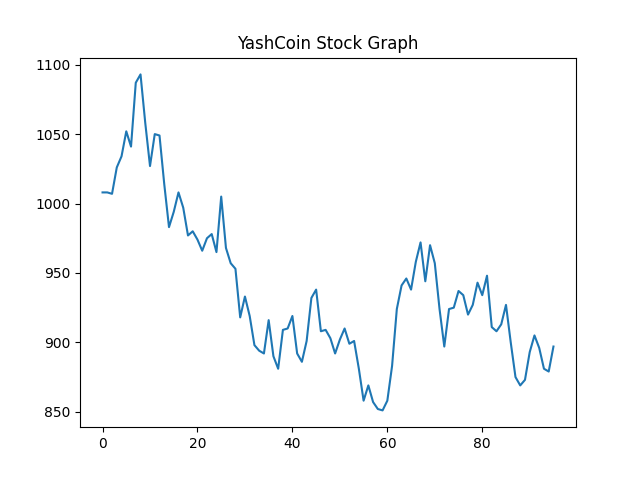
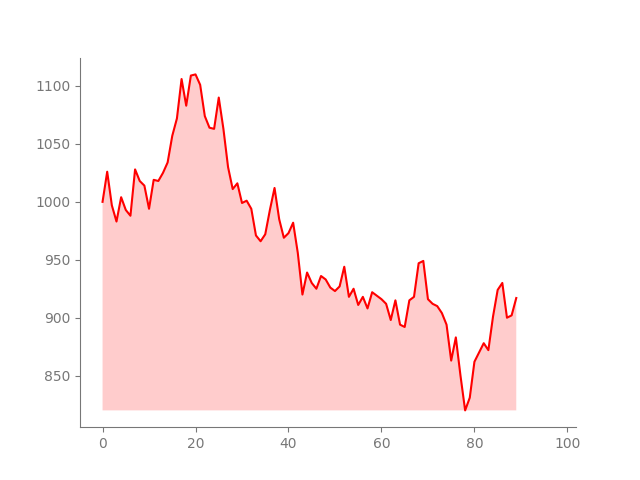
(mostly) completed YC value mechanics and visualization

diff --git a/cogs/yashcoin_cog.py b/cogs/yashcoin_cog.py
@@ -5,12 +5,13 @@ from cogs.base_cog      import BaseCog
 
 from utils              import (get_json_path, get_json_data, set_json_data,
                                 get_emoji, get_mentioned_member, create_progress_bar,
-                                create_black_embed, create_graph)
+                                create_black_embed, create_simple_graph, 
+                                update_simple_graph, get_simple_graph_value_count)
 from custom_errors import TooManyArgumentsError
 
 from numpy import random, exp, cumprod
 from math import sqrt
-from datetime import date
+from datetime import datetime, date
 
 class YashCoinCog(BaseCog):
     def __init__(self, bot):
@@ -137,18 +138,48 @@ class YashCoinCog(BaseCog):
         path = get_json_path("yashcoin")
         json_data = await get_json_data(path)
 
+        # Set up new graph for the new day
         today = str(date.today())
         if json_data.setdefault("prev_check", None) != today:
             values = self.__get_yc_graph_values()
-            create_graph(values, color=self.__get_yc_graph_color(values[0], values[-1]))
-
             json_data["prev_check"] = today
             json_data["values"] = values
 
-            await set_json_data(path, json_data)
+            self.__create_yc_graph(len(values))
 
+            await set_json_data(path, json_data)
         
-        await ctx.send(file=discord.File("assets/plot.png"))
+        # Generate up-to-date graph
+        values = json_data.get("values", [self.__BASE_PRICE])
+        num_values = len(values)
+
+        clock = datetime.now()
+        clock_idx = int(num_values * ((clock.hour + (clock.minute / 60)) / 24))
+
+        current_values = values[:clock_idx] # TODO: current vlaues should get subset of values, up until "present time"
+        if get_simple_graph_value_count() < len(current_values):
+            self.__update_yc_graph(num_values, current_values)
+
+        difference = current_values[-1] - current_values[0]
+        percentage = difference / current_values[0]
+
+        embed_reply = create_black_embed()
+
+        embed_reply.title = "Market Summary — `YCSE: YSH`"
+        embed_reply.add_field(
+            name="**Value**", 
+            value=f"`{current_values[-1]} NRT` | `{difference:+d} ({percentage:+.2%})`", 
+            inline=False
+        )
+        embed_reply.add_field(
+            name="**Date and Time**", 
+            value=f"`{clock.strftime('%b %d, %I:%M %p')} PT`", 
+            inline=False
+        )
+        file = discord.File("assets/plot.png", filename="plot.png")
+        embed_reply.set_image(url="attachment://plot.png")
+
+        await ctx.send(file=file, embed=embed_reply)
 
 
 
@@ -211,6 +242,16 @@ class YashCoinCog(BaseCog):
             return "gray"
         
         return "green" if start < end else "red"
+    
+    __X_PADDING = 0.05
+    def __create_yc_graph(self, num_values):
+        xlim = (-self.__X_PADDING * num_values, (1 + self.__X_PADDING) * num_values)
+        create_simple_graph(None, xlim=xlim)
+    
+    def __update_yc_graph(self, num_values, current_values):
+        xlim = (-self.__X_PADDING * num_values, (1 + self.__X_PADDING) * num_values)
+        color = self.__get_yc_graph_color(current_values[0], current_values[-1])
+        update_simple_graph(None, current_values, xlim=xlim, color=color)
 
 
 def setup(bot):

diff --git a/utils.py b/utils.py
@@ -102,21 +102,64 @@ async def set_json_data(path, json_data):
 
 
 ### Graph Helpers ###
-def create_graph(values, **kwargs):
-    steps = len(values)
+def create_simple_graph(title, values=[], xlim=(), ylim=(), **kwargs):
 
     plt.clf()
-    plt.plot(values, **kwargs)
-    plt.fill_between(x=range(steps), y1=values, y2=[min(values)] * steps, 
-                     facecolor=kwargs.get("color", None), alpha=0.2)
+    plt.title(title)
     axes = plt.gca()
-    axes.spines["top"].set_visible(False)
-    axes.spines["right"].set_visible(False)
-    plt.title("YashCoin Stock Graph")
+    axes.spines.top.set_visible(False)
+    axes.spines.right.set_visible(False)
+    # Modify colors to be light and dark mode friendly
+    axes.spines.bottom.set_color("#777") 
+    axes.spines.left.set_color("#777")
+    axes.xaxis.label.set_color("#777")
+    axes.yaxis.label.set_color("#777")
+    axes.tick_params(colors="#777", which="both")
+
+    if len(xlim) > 0: axes.set_xlim(*xlim)
+    if len(ylim) > 0: axes.set_ylim(*ylim)
+
+    plt.plot(values, **kwargs)
+
     # TODO: save graph in memory rather than onto the hard drive
     #       https://stackoverflow.com/questions/60006794/send-image-from-memory
     #       https://stackoverflow.com/questions/8598673/how-to-save-a-pylab-figure-into-in-memory-file-which-can-be-read-into-pil-image
-    plt.savefig(fname="assets/plot")
+    plt.savefig(fname="assets/plot", transparent=True)
+
+def update_simple_graph(title, values, xlim=(), ylim=(), **kwargs):
+    steps = len(values)
+    
+    lines = plt.gca().get_lines()
+    if not lines: # if graph is empty (no lines plotted), generate new graph
+        create_simple_graph(title, xlim=xlim, ylim=ylim, **kwargs)
+        lines = plt.gca().get_lines()
+
+    # update line by inputs
+    line = lines[0]
+    line_color = kwargs.get("color", None)
+    if line_color is not None and line.get_color() != line_color:
+        try: line.set_color(line_color)
+        except ValueError: pass
+    line.set_xdata(range(steps))
+    line.set_ydata(values)
+    
+    # update area by inputs
+    # is it faster to remove and replace collections, or to update existing collections?
+    collections = plt.gca().collections
+    if collections:
+        plt.gca().collections.clear()
+    plt.fill_between(x=range(steps), y1=values, y2=[min(values)] * steps, 
+                     facecolor=line.get_color(), alpha=0.2)
+    
+    # TODO: save graph in memory rather than onto the hard drive
+    #       https://stackoverflow.com/questions/60006794/send-image-from-memory
+    #       https://stackoverflow.com/questions/8598673/how-to-save-a-pylab-figure-into-in-memory-file-which-can-be-read-into-pil-image
+    plt.savefig(fname="assets/plot", transparent=True)
+
+def get_simple_graph_value_count():
+    lines = plt.gca().get_lines()
+    if not lines: return 0
+    return len(lines[0].get_xdata())
 
 
 
